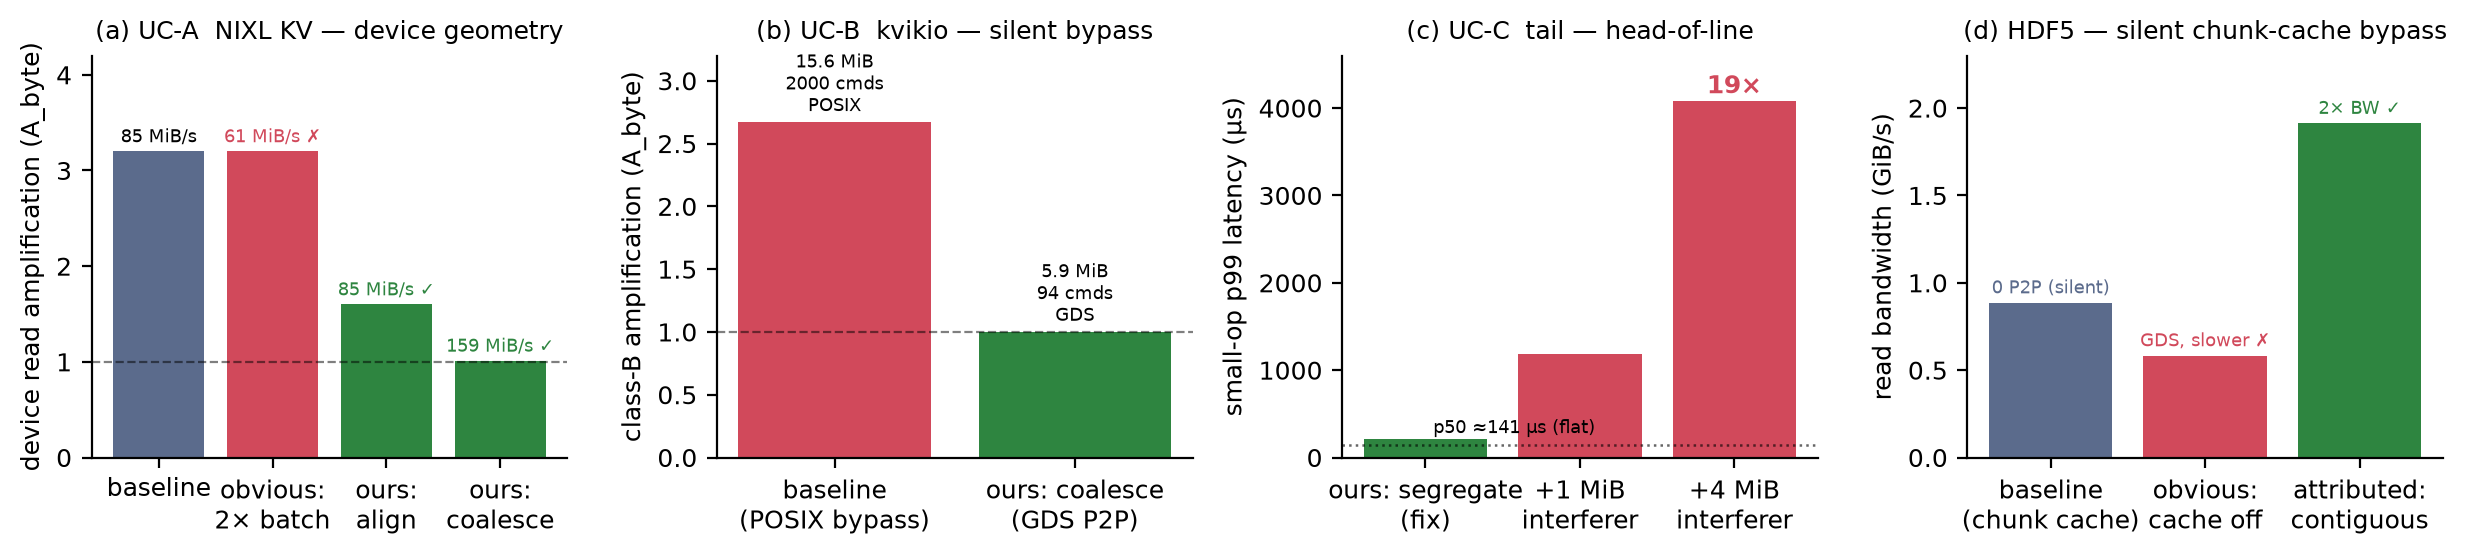
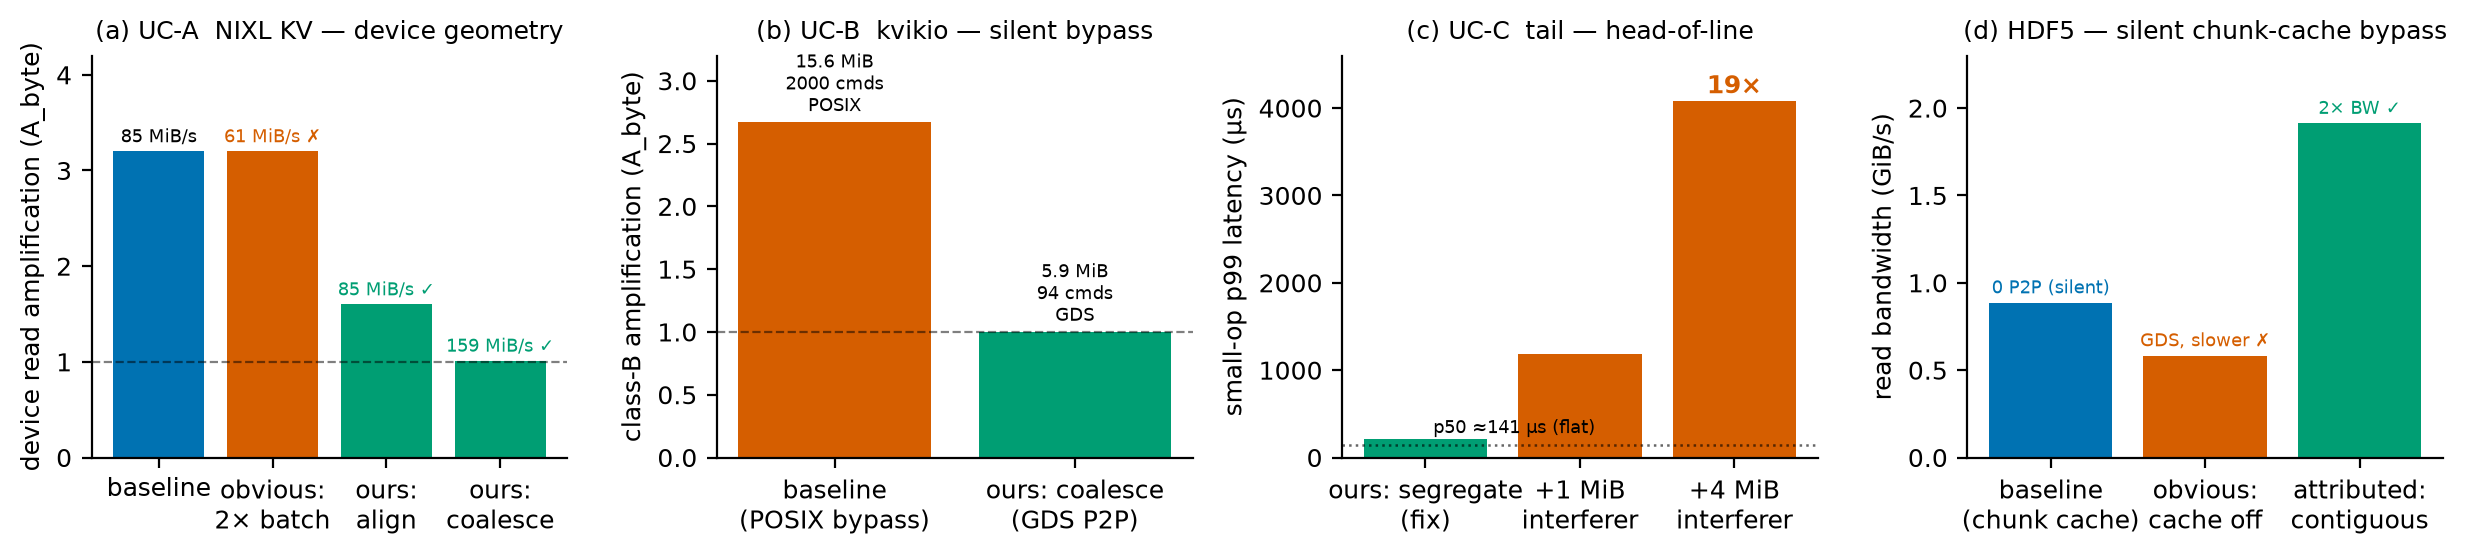
Figures: switch to the Okabe-Ito colorblind-safe palette
Replace the red/green bars (a deuteranopia/protanopia confusion pair) with the
Okabe-Ito palette: vermillion for the pathology/obvious-worse case, bluish-green
for the fix, blue for the baseline. Applies to Fig 2 (all four diagnosis panels)
and Fig 3 (measured-vs-sector, now gray dashed vs vermillion). Bars and lines
also carry position labels and text annotations, so meaning never rests on color
alone. No layout change (7 pages, 0 overfull).

diff --git a/tools/make_figs.py b/tools/make_figs.py
@@ -11,7 +11,9 @@ import matplotlib.pyplot as plt
 
 HERE = os.path.dirname(os.path.dirname(os.path.abspath(__file__)))
 OUT = os.path.join(HERE, "results", "figures"); os.makedirs(OUT, exist_ok=True)
-GRAY, BAD, GOOD, BASE = "#9e9e9e", "#d1495b", "#2e8540", "#5b6b8c"
+# Okabe-Ito colorblind-safe palette: vermillion (bad), bluish-green (good), blue (baseline), gray (neutral).
+# Bars also carry x-axis labels and text annotations, so meaning never rests on color alone.
+GRAY, BAD, GOOD, BASE = "#999999", "#d55e00", "#009e73", "#0072b2"
 plt.rcParams.update({"font.size": 9, "axes.spines.top": False, "axes.spines.right": False})
 
 def save(fig, name):
